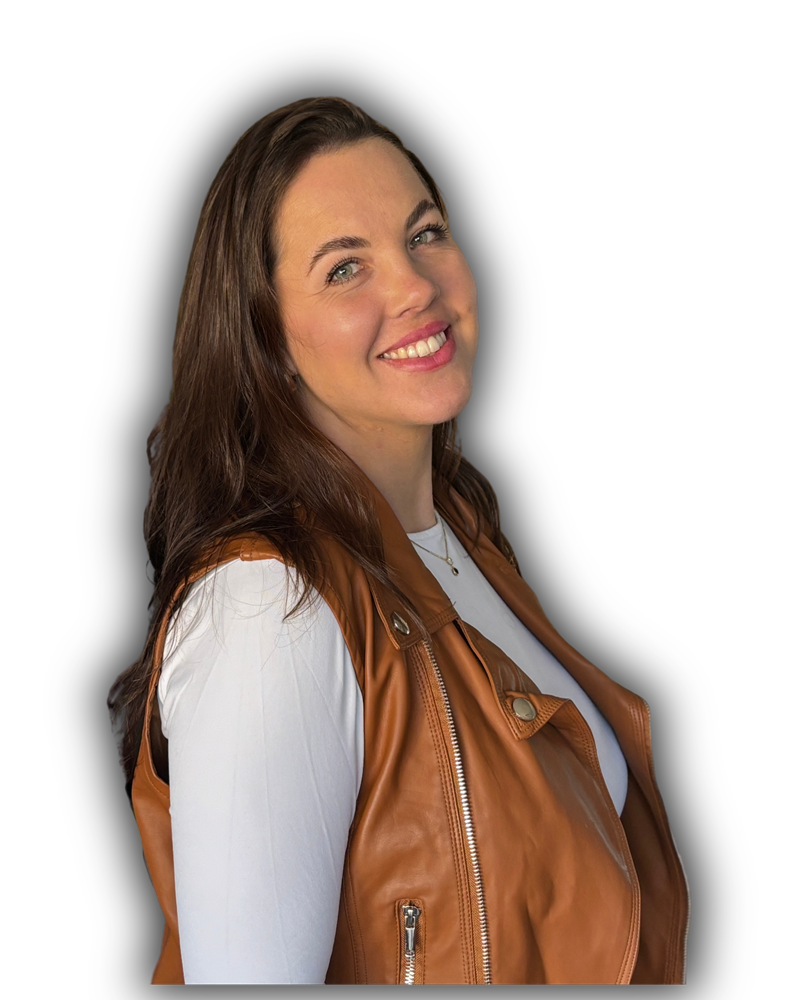
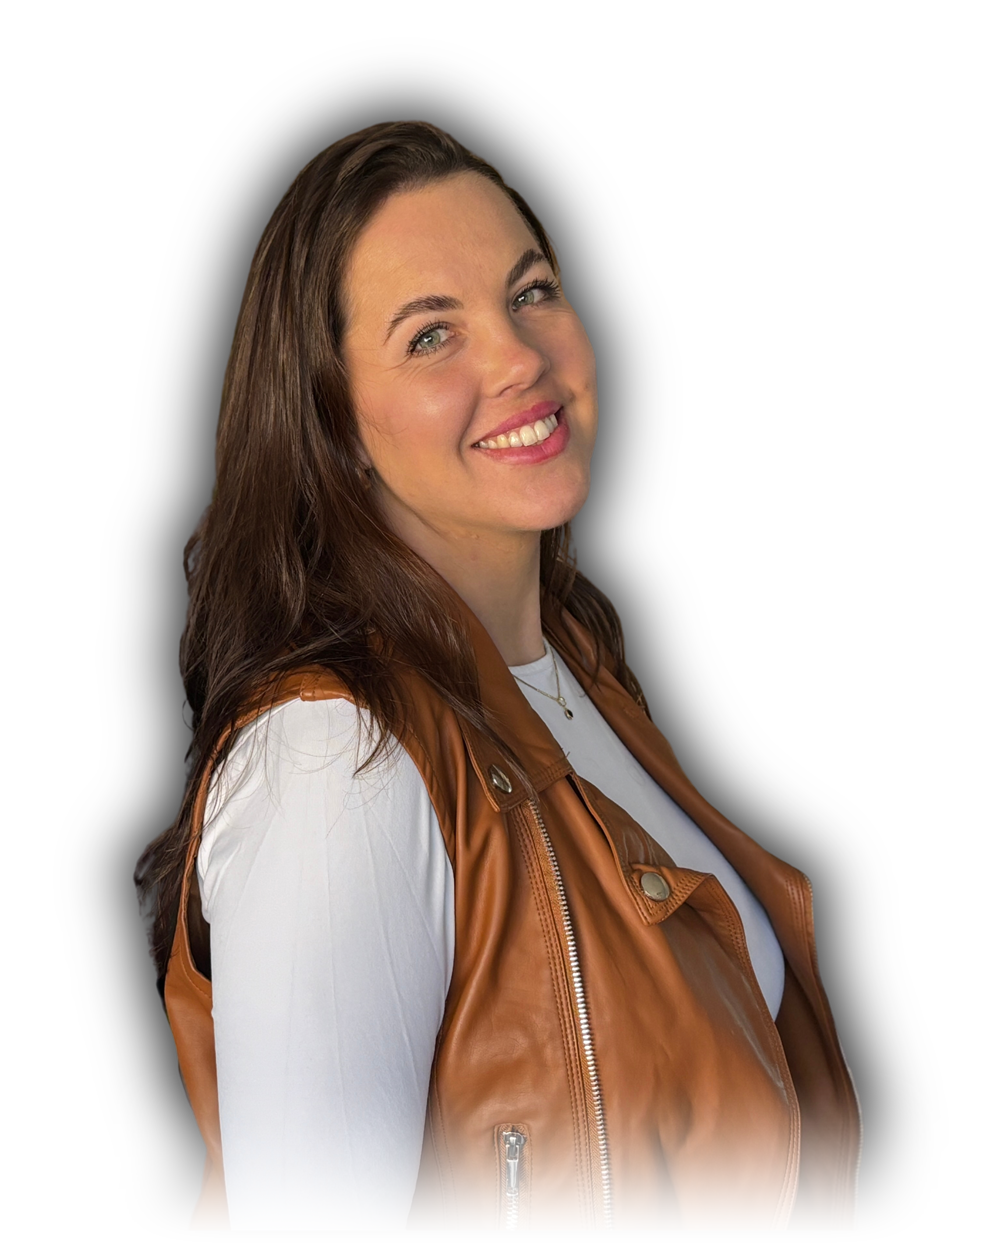
Foto de capa com entrada animada (diminui ao entrar) e bordas esfumadas

Changed region(s): [[0.1562, 0.868, 0.9062, 1.0]]

diff --git a/index.html b/index.html
@@ -95,7 +95,9 @@
   .numeros-capa div > span{font-size:.85rem;color:var(--texto-suave);font-weight:600}
   .foto-capa-wrap{position:relative}
   .foto-capa{aspect-ratio:4/5;background:none;box-shadow:none;border-radius:0;overflow:visible}
-  .foto-capa img{position:absolute;left:-6%;bottom:0;width:112%;height:auto;display:block}
+  .foto-capa img{position:absolute;left:-6%;bottom:0;width:112%;height:auto;display:block;transform-origin:50% 100%;animation:foto-entrar 1.6s cubic-bezier(.2,.7,.2,1) both}
+  @keyframes foto-entrar{from{transform:scale(1.22);opacity:0}to{transform:scale(1);opacity:1}}
+  @media (prefers-reduced-motion:reduce){.foto-capa img{animation:none}}
   .selo-novo{position:absolute;top:-18px;right:-12px;width:96px;height:96px;border-radius:50%;background:var(--musgo);color:#fff;display:flex;align-items:center;justify-content:center;font-weight:800;font-size:1.15rem;text-transform:uppercase;letter-spacing:.06em;box-shadow:var(--sombra);transform:rotate(12deg);border:3px dashed rgba(255,255,255,.45)}
   .etiqueta-capa{position:absolute;left:-18px;bottom:40px;background:#fff;border-radius:var(--raio-sm);padding:12px 16px;box-shadow:var(--sombra-forte);font-size:.85rem;font-weight:700;display:flex;align-items:center;gap:10px}
   .etiqueta-capa .estrelas{color:#e8a500}
